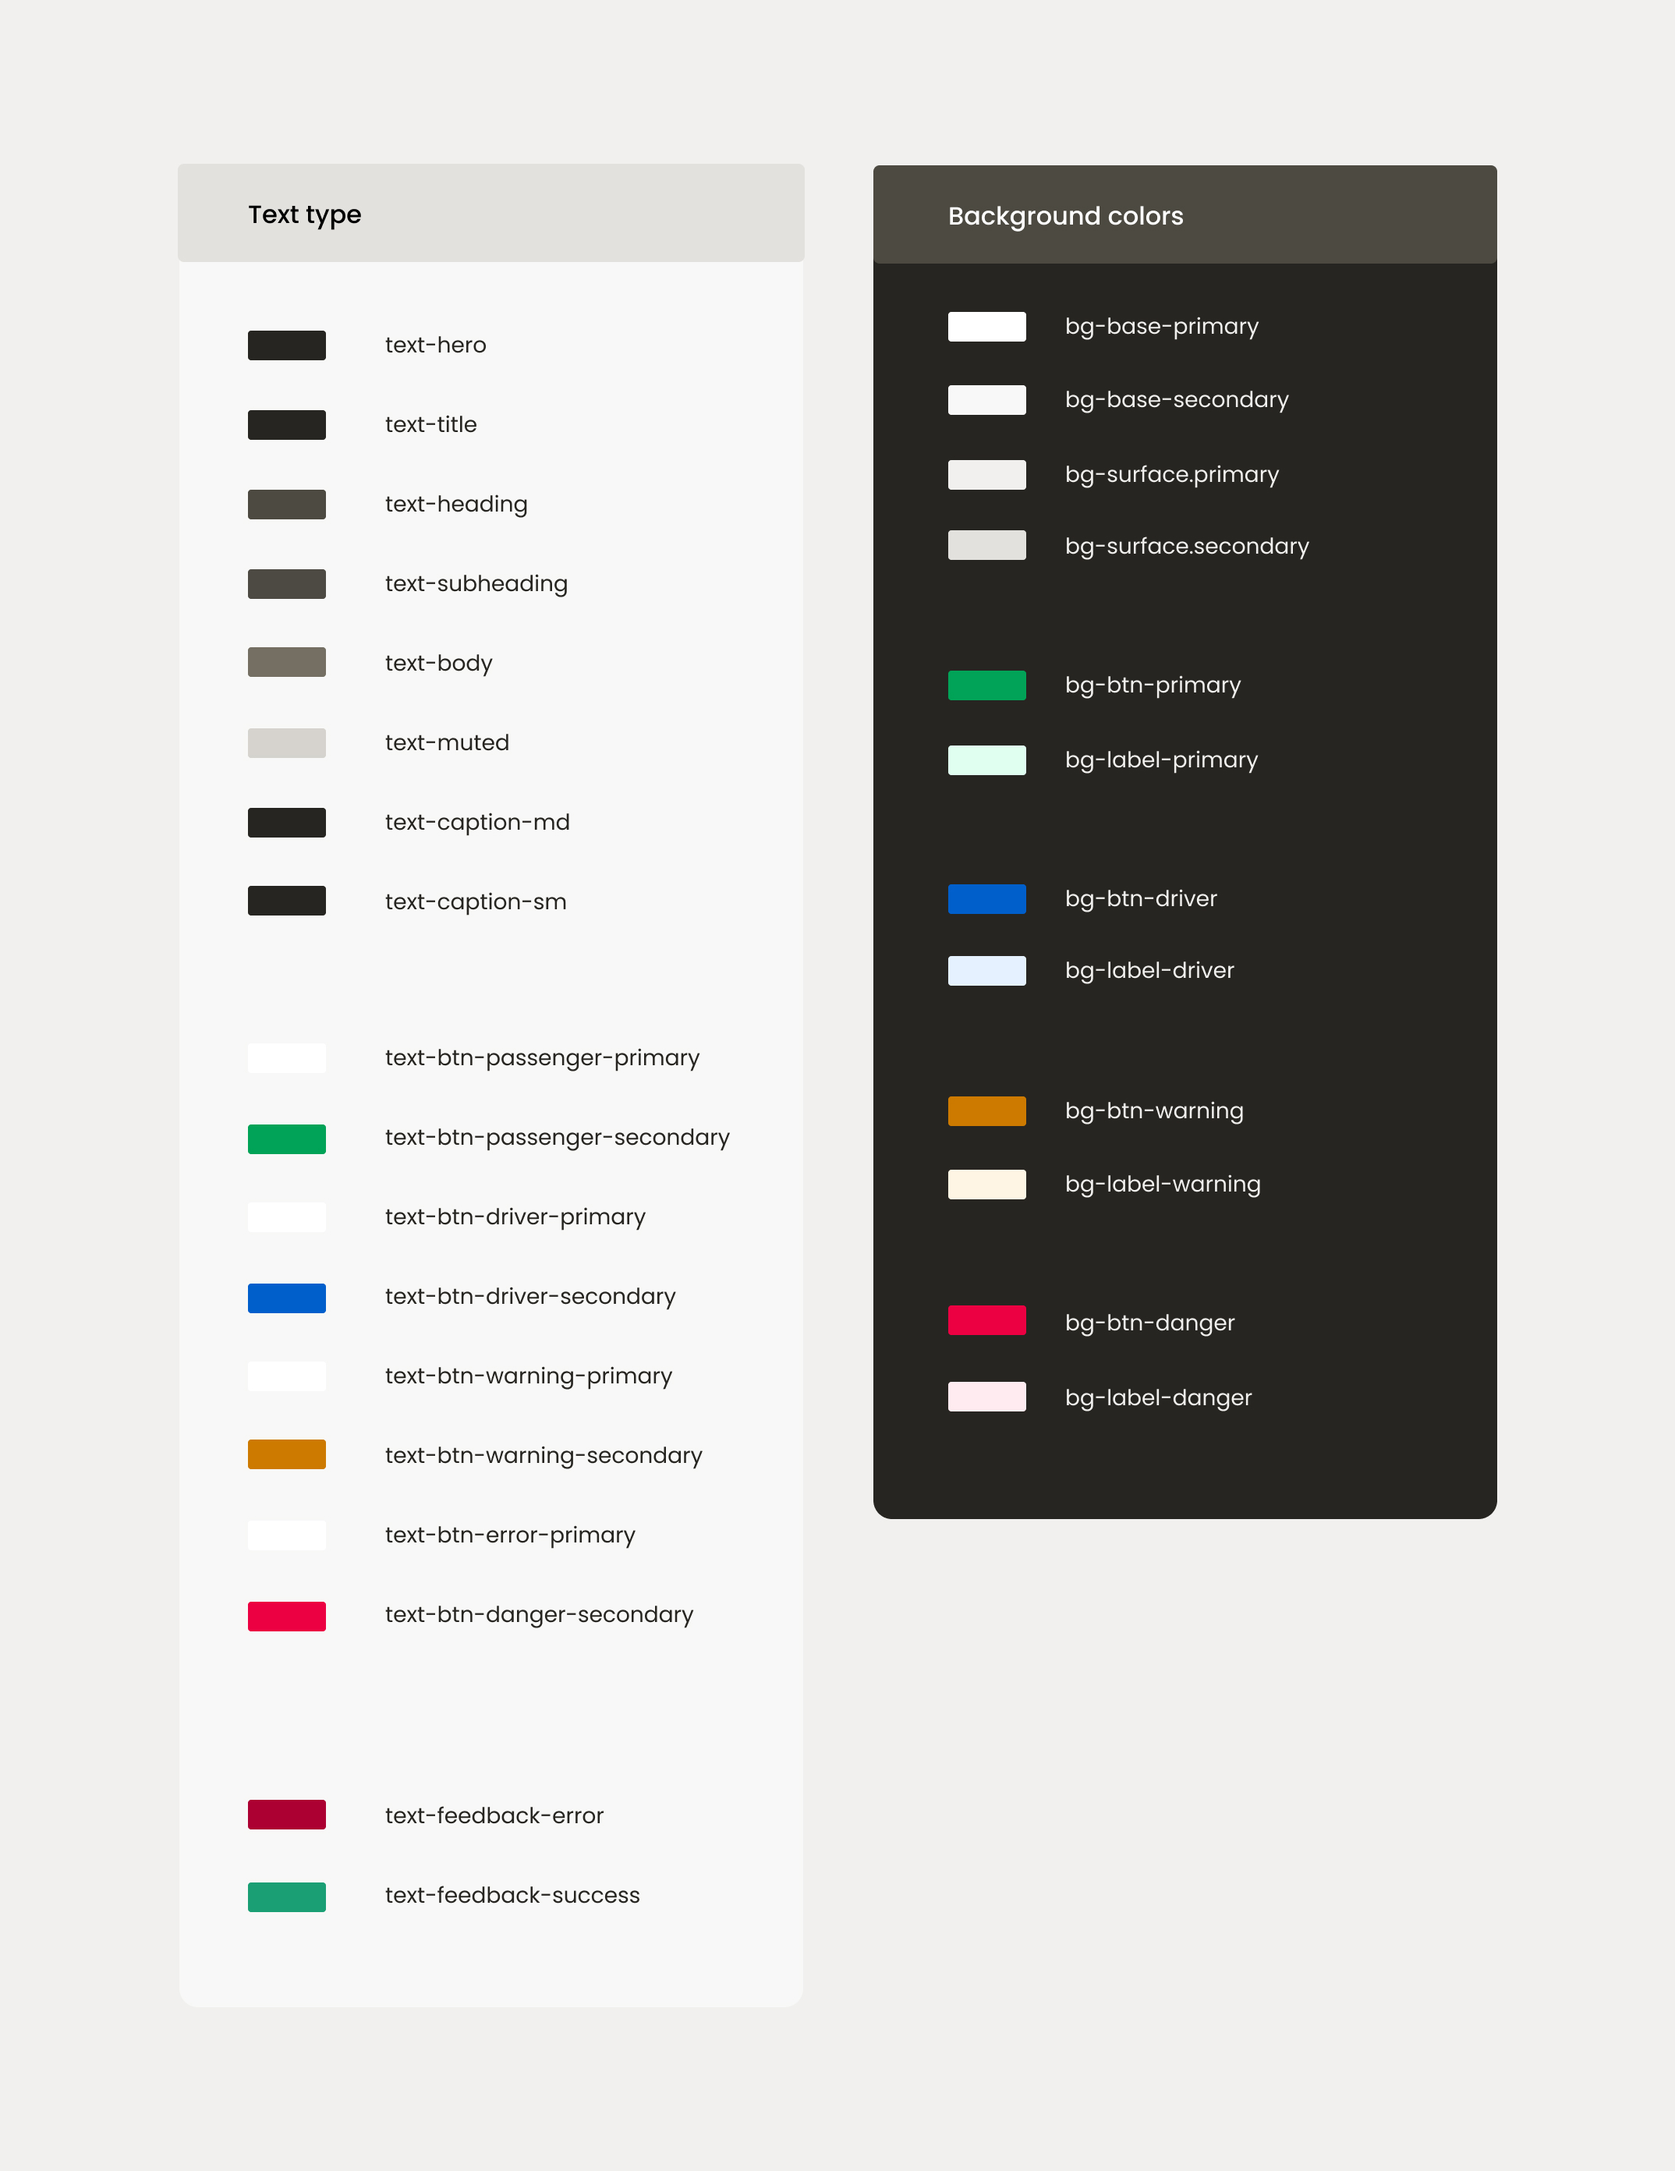
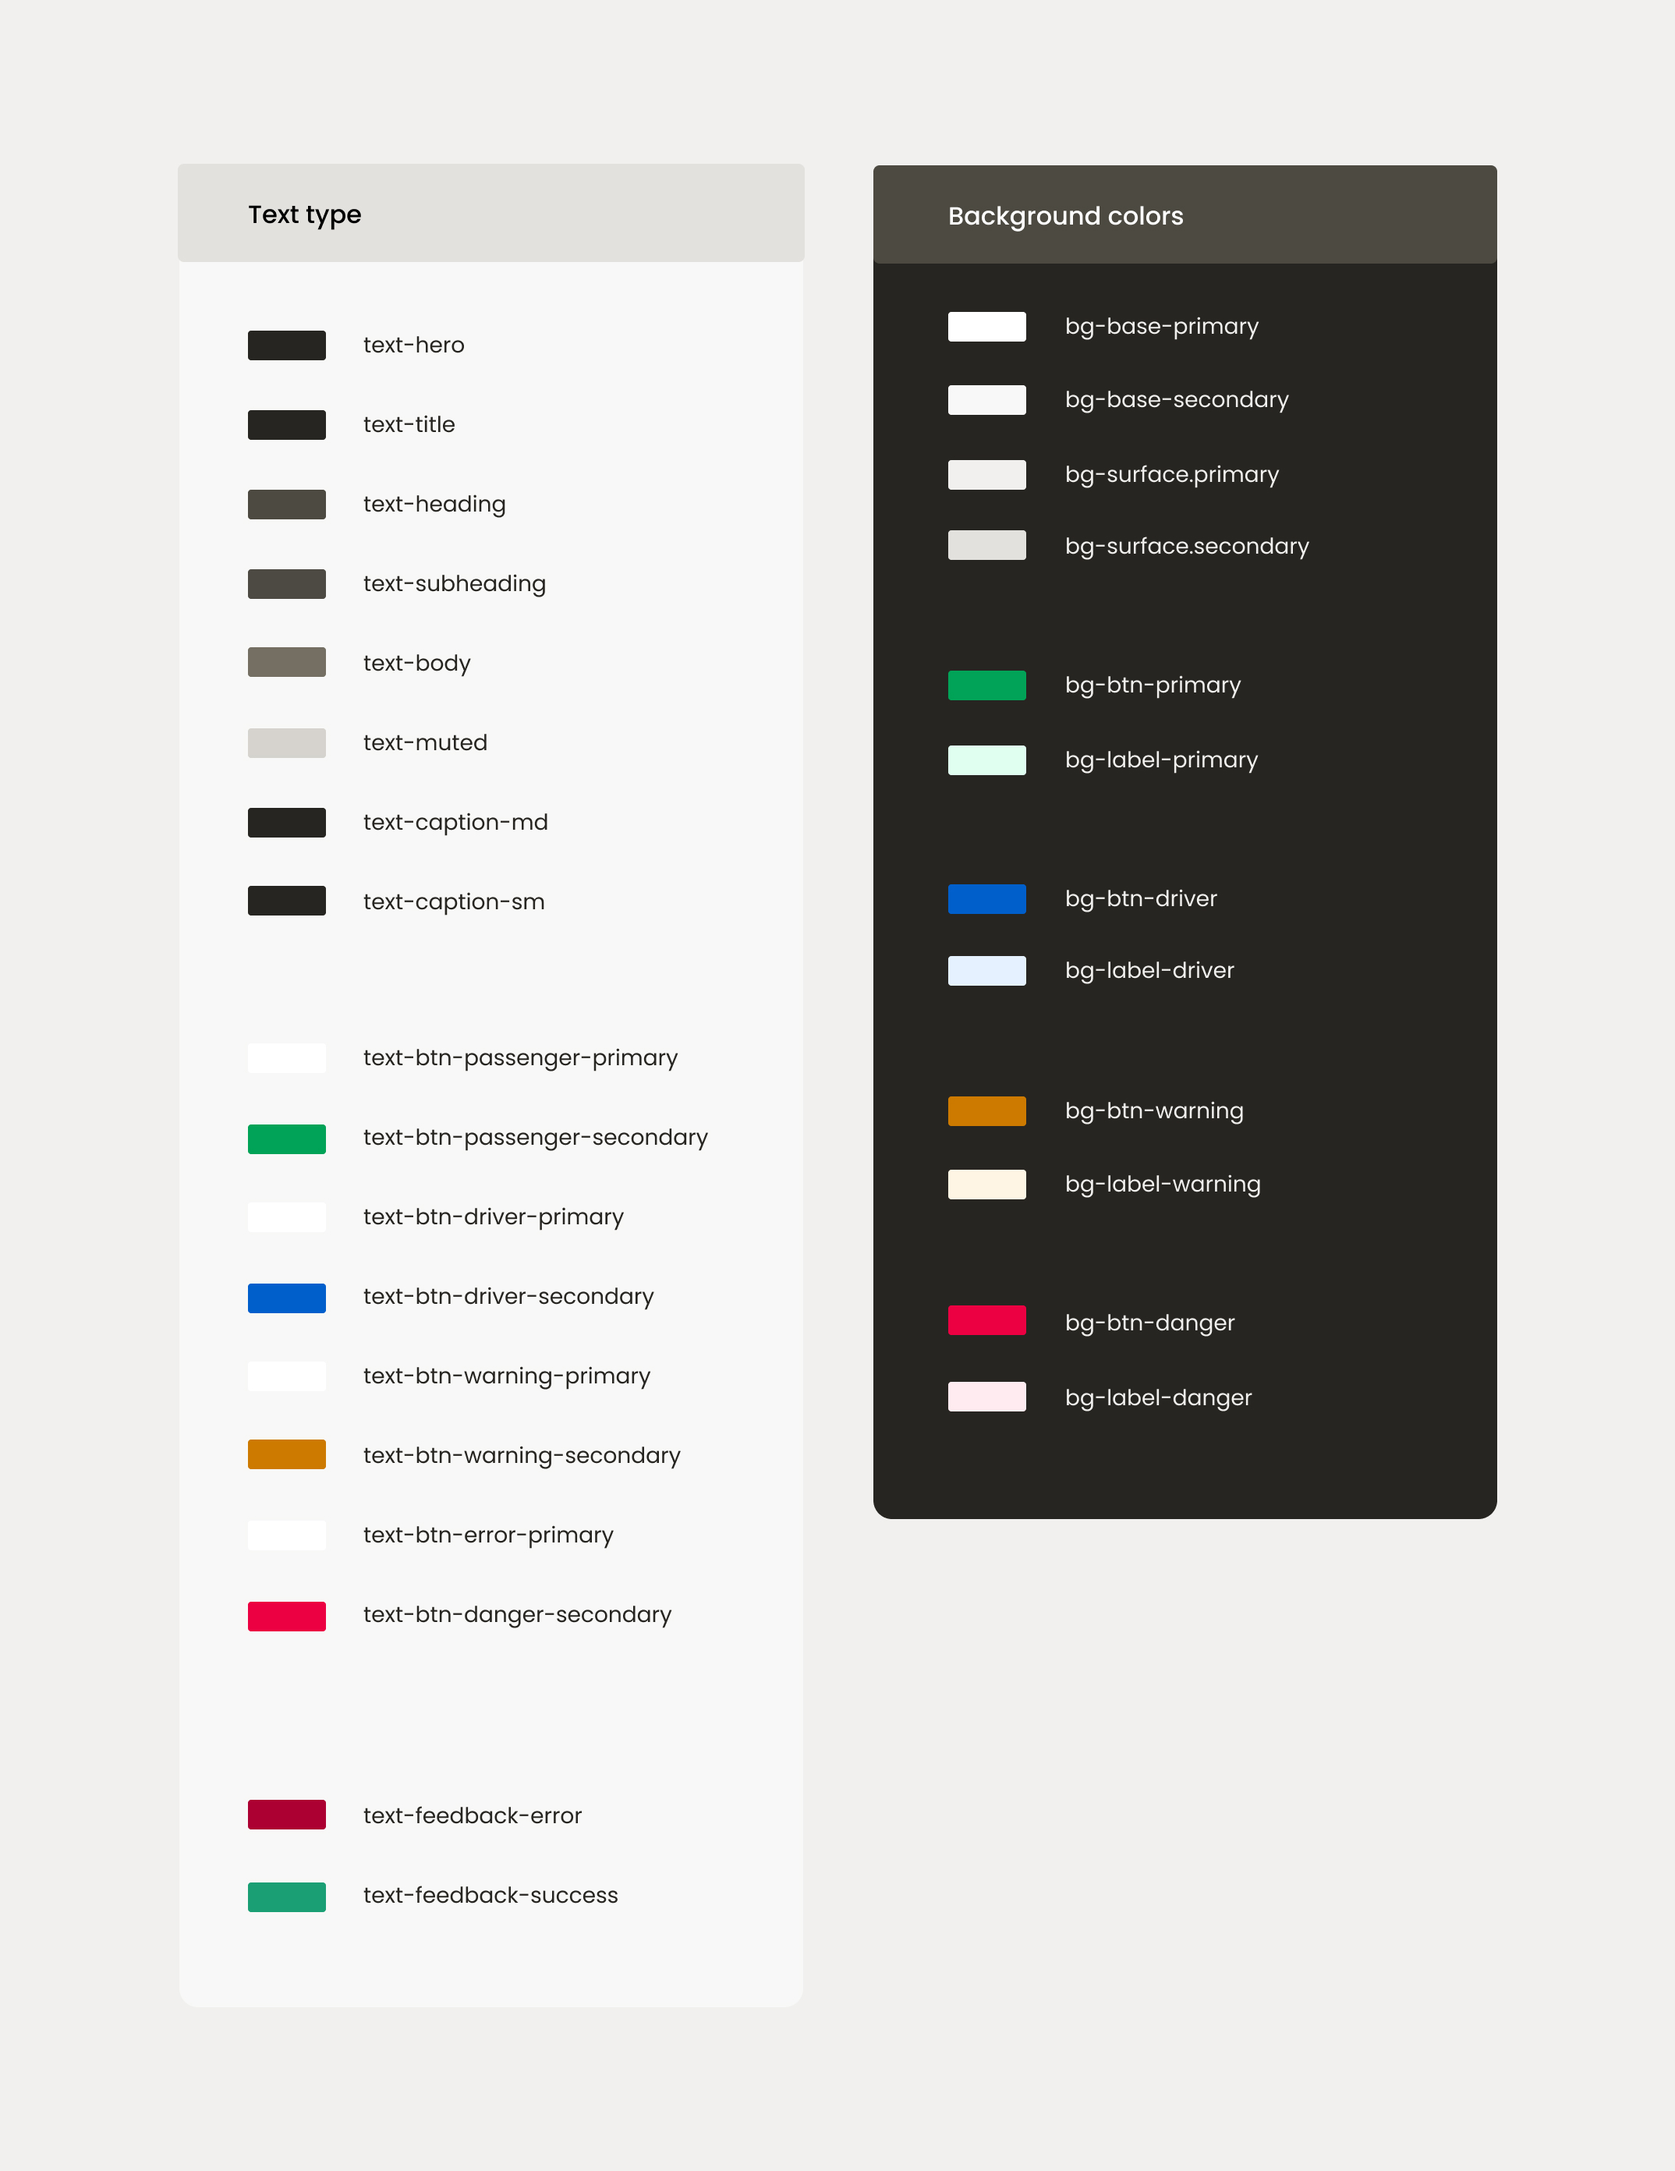
final adjustments

diff --git a/blogs/design-systems-scale.html b/blogs/design-systems-scale.html
@@ -80,7 +80,7 @@
         <p>
           As digital products grow, so does their complexity. Features expand, teams scale, and
           maintaining consistency across platforms becomes increasingly difficult. This is where
-          design systems become essential — not just as UI libraries, but as operational frameworks
+          design systems become essential not just as UI libraries, but as operational frameworks
           that help teams design, build, and scale products more efficiently.
         </p>
         <p>
@@ -113,8 +113,8 @@
         <h2>A Token-Based Foundation</h2>
         <p>
           For Nabogo and similar product work, I structured the design system around
-          <strong>design tokens</strong> — named values for color, type, spacing, and interaction
-          that stay consistent in Figma and in code. Tokens are the foundation; components and
+          <strong>design tokens</strong> which are named values for color, type, spacing, and interaction
+          that stay consistent in Figma and in code. Tokens are the foundation while components and
           screens are built from them, not the other way around.
         </p>
         <p>A token-based system typically layers like this:</p>
@@ -128,18 +128,31 @@
           <li>elevation and border weights</li>
         </ul>
 
-        <h3>Semantic tokens</h3>
-        <p>Names that describe <em>purpose</em>, not appearance:</p>
-        <ul>
-          <li><code>text-primary</code>, <code>text-secondary</code>, <code>text-disabled</code></li>
-          <li><code>surface-default</code>, <code>surface-elevated</code>, <code>surface-success</code></li>
-          <li><code>border-subtle</code>, <code>border-focus</code></li>
-          <li><code>action-primary</code>, <code>action-destructive</code></li>
-        </ul>
-        <p>
-          Semantic tokens make theme changes and accessibility fixes easier — update the mapping once,
-          and buttons, inputs, and cards stay aligned.
-        </p>
+        <div class="blog-post__media-row">
+          <div class="blog-post__media-copy">
+            <h3>Semantic tokens</h3>
+            <p>Names that describe <em>purpose</em>, not appearance:</p>
+            <ul>
+              <li><code>text-primary</code>, <code>text-secondary</code>, <code>text-disabled</code></li>
+              <li><code>surface-default</code>, <code>surface-elevated</code>, <code>surface-success</code></li>
+              <li><code>border-subtle</code>, <code>border-focus</code></li>
+              <li><code>action-primary</code>, <code>action-destructive</code></li>
+            </ul>
+            <p>
+              Semantic tokens make theme changes and accessibility fixes easier. If you update the mapping once,
+              and buttons, inputs, and cards stay aligned.
+            </p>
+          </div>
+          <figure class="blog-post__media-visual">
+            <img
+              class="article-image"
+              src="../assets/projects/nabogo/nbg-semantic.jpg"
+              alt="Nabogo semantic design tokens in Figma"
+              loading="lazy"
+              decoding="async"
+            />
+          </figure>
+        </div>
 
         <h3>Component tokens</h3>
         <p>Component-level decisions that reference semantics:</p>
@@ -154,7 +167,7 @@
         <p>
           Tokens are documented in Figma variables, Storybook, and code so designers and developers
           share one vocabulary. Instead of debating hex codes per screen, teams reference
-          <code>surface-success</code> or <code>spacing-md</code> — making products easier to scale
+          <code>surface-success</code> or <code>spacing-md</code> making products easier to scale
           and maintain over time.
         </p>
 
@@ -172,8 +185,9 @@
           <li>fragmented user experiences</li>
         </ul>
         <p>
-          A design system creates alignment between designers, developers, product managers, and
-          stakeholders — it becomes a shared language for building products.
+          All of these were problems at Nabogo ApS due to lack of a design system and product 
+          design direction. A design system creates alignment between designers, developers, 
+          product managers, and stakeholders and it becomes a shared language for building products.
         </p>
 
         <h2>How AI Is Changing Design System Workflows</h2>
@@ -181,7 +195,7 @@
           AI is rapidly transforming how design systems are created, maintained, and documented.
           Instead of replacing designers, AI acts as a collaborator that accelerates repetitive and
           operational tasks. The shift is not only <em>what</em> we document, but <em>who</em> we
-          document it for — increasingly, for AI agents as much as for human teammates.
+          document it for. For example, increasingly, for AI agents as much as for human teammates.
         </p>
         <p>The biggest advantage is speed combined with consistency, as long as the system’s rules are explicit.</p>
 
@@ -193,7 +207,7 @@
           tools can read.
         </p>
         <p>
-          I write this documentation in <strong>Markdown</strong> — plain, structured files that are easy
+          I write this documentation in <strong>Markdown</strong> which are plain, structured files that are easy
           to version in Git and feed directly into <strong>Cursor</strong> or <strong>Claude</strong> as
           context. When an agent starts a task, it already knows your semantic tokens, layout conventions,
           and accessibility expectations instead of guessing from screenshots alone.
@@ -208,14 +222,14 @@
         </ul>
         <p>
           AI can draft first versions of component descriptions, accessibility notes, and usage
-          guidelines — then designers refine them into the Markdown files agents rely on.
+          guidelines then designers refine them into the Markdown files agents rely on.
         </p>
 
         <h3>Design-to-code sync with Figma MCP</h3>
         <p>
           <strong>Design-to-code sync:</strong> tools that use <strong>Figma MCP</strong> (Model Context
           Protocol) connect Figma with your codebase. An AI agent can read your design screens and your
-          actual repository at the same time — comparing components, spacing, and token usage so
+          actual repository at the same time comparing components, spacing, and token usage so
           implementation stays in parity with the file designers approved.
         </p>
         <p>
@@ -227,8 +241,8 @@
 
         <h3>Rule-based AI in Cursor</h3>
         <p>
-          <strong>Rule-based AI:</strong> configure exact rules in tools like Cursor — for example,
-          guidelines for base components, spacing, token usage, and folder structure — so AI-generated
+          <strong>Rule-based AI:</strong> configure exact rules in tools like Cursor (for example,
+          guidelines for base components, spacing, token usage, and folder structure) so AI-generated
           features follow your architectural standards by default.
         </p>
         <p>
@@ -285,14 +299,14 @@
         </ul>
         <p>
           The teams that scale successfully will not only create reusable components, but also build
-          workflows — Markdown docs for agents, Figma MCP for design-to-code parity, and Cursor rules
-          for architecture — that make consistency easier to maintain over time.
+          workflows: Markdown docs for agents, Figma MCP for design-to-code parity, and Cursor rules
+          for architecture. That makes consistency easier to maintain over time.
         </p>
         <p>AI is becoming a key part of that process when the system itself is written to be understood.</p>
 
         <h2>Final Thoughts</h2>
         <p>
-          The best design systems are not the biggest — they are the clearest. Simplicity,
+          The best design systems are not the biggest but they are the clearest. Simplicity,
           structure, and consistency create products that are easier to understand, maintain, and
           scale.
         </p>

diff --git a/index.html b/index.html
@@ -107,9 +107,13 @@
           <div class="home-collage__copy">
             <h2 id="home-collage-heading">From research to shipped UI</h2>
             <p class="intro home-collage__intro">
-              A snapshot of how I partner with teams: clarifying problems, shaping
+              A snapshot of how I partner with teams: gathering feedback from users, defining problems, shaping
               flows and components, and polishing interfaces so products feel clear,
-              consistent, and ready for real users.
+              consistent and easy to navigate.
+            </p>
+            <p class="intro home-collage__intro home-collage__intro--follow">
+              I'm using AI as a partner but I keep the human touch in products to ensure they are not just
+              technically sound but also fixing new problems for real users.
             </p>
           </div>
         </div>

diff --git a/styles.css b/styles.css
@@ -432,6 +432,10 @@ main.container.section > p.intro {
   line-height: 1.55;
 }
 
+.home-collage__intro--follow {
+  margin-top: 1.25rem;
+}
+
 .hero {
   padding: 4rem 0 3rem;
   display: grid;
@@ -1142,6 +1146,34 @@ body.page-blog .blog-card .thumb {
 
 .blog-post__project-card.project-card--landscape .thumb {
   min-height: 11rem;
+}
+
+.blog-post__media-row {
+  display: grid;
+  grid-template-columns: minmax(0, 1fr) minmax(0, min(44%, 300px));
+  gap: clamp(1rem, 3vw, 1.5rem);
+  align-items: start;
+  margin: 0 0 1rem;
+}
+
+.blog-post__media-copy h3 {
+  margin-top: 0;
+}
+
+.blog-post__media-visual {
+  margin: 0;
+}
+
+.blog-post__media-visual .article-image {
+  margin-bottom: 0;
+  border-radius: 12px;
+  border: 1px solid var(--border);
+}
+
+@media (max-width: 640px) {
+  .blog-post__media-row {
+    grid-template-columns: 1fr;
+  }
 }
 
 @media (max-width: 560px) {
